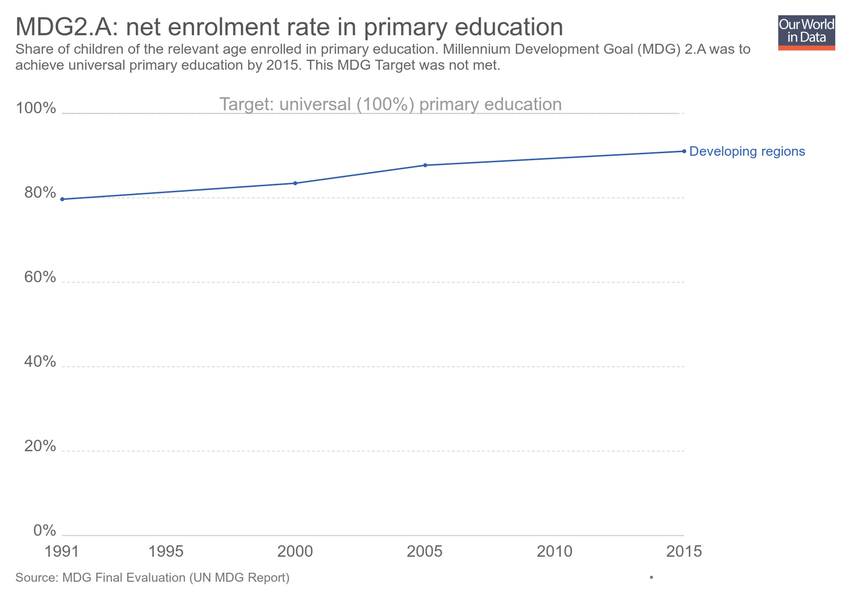
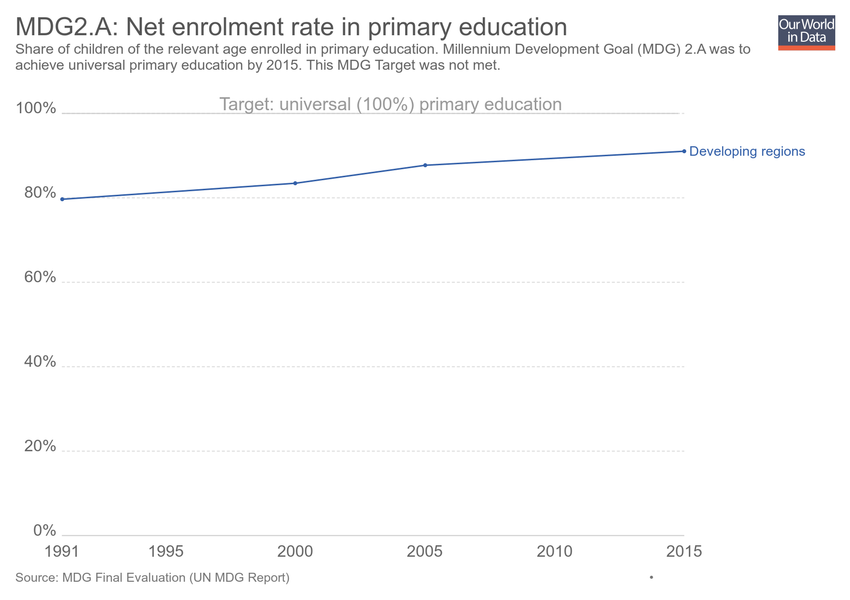
Updating chart mdg2a-education

Changed region(s): [[0.1529, 0.03, 0.6729, 0.06]]

diff --git a/grapher/mdg2a-education.html b/grapher/mdg2a-education.html
@@ -1,4 +1,4 @@
-<!doctype html><html><head><meta name="viewport" content="width=device-width, initial-scale=1" /><title>MDG2.A: net enrolment rate in primary education - Our World in Data</title><meta name="description" content="Share of children of the relevant age enrolled in primary education. Millennium Development Goal (MDG) 2.A was to achieve universal primary education by 2015. This MDG Target was not met." /><link rel="canonical" href="https://ourworldindata.org/grapher/mdg2a-education" /><meta property="fb:app_id" content="1149943818390250" /><meta property="og:url" content="https://ourworldindata.org/grapher/mdg2a-education" /><meta property="og:title" content="MDG2.A: net enrolment rate in primary education" /><meta property="og:description" content="Share of children of the relevant age enrolled in primary education. Millennium Development Goal (MDG) 2.A was to achieve universal primary education by 2015. This MDG Target was not met." /><meta property="og:image" content="https://ourworldindata.org/grapher/exports/mdg2a-education.png?v=1" /><meta property="og:image:width" content="850" /><meta property="og:image:height" content="600" /><meta property="og:site_name" content="Our World in Data" /><meta name="twitter:card" content="summary_large_image" /><meta name="twitter:site" content="@OurWorldInData" /><meta name="twitter:creator" content="@OurWorldInData" /><meta name="twitter:title" content="MDG2.A: net enrolment rate in primary education" /><meta name="twitter:description" content="Share of children of the relevant age enrolled in primary education. Millennium Development Goal (MDG) 2.A was to achieve universal primary education by 2015. This MDG Target was not met." /><meta name="twitter:image" content="https://ourworldindata.org/grapher/exports/mdg2a-education.png?v=1" /><style>
+<!doctype html><html><head><meta name="viewport" content="width=device-width, initial-scale=1" /><title>MDG2.A: Net enrolment rate in primary education - Our World in Data</title><meta name="description" content="Share of children of the relevant age enrolled in primary education. Millennium Development Goal (MDG) 2.A was to achieve universal primary education by 2015. This MDG Target was not met." /><link rel="canonical" href="https://ourworldindata.org/grapher/mdg2a-education" /><meta property="fb:app_id" content="1149943818390250" /><meta property="og:url" content="https://ourworldindata.org/grapher/mdg2a-education" /><meta property="og:title" content="MDG2.A: Net enrolment rate in primary education" /><meta property="og:description" content="Share of children of the relevant age enrolled in primary education. Millennium Development Goal (MDG) 2.A was to achieve universal primary education by 2015. This MDG Target was not met." /><meta property="og:image" content="https://ourworldindata.org/grapher/exports/mdg2a-education.png?v=2" /><meta property="og:image:width" content="850" /><meta property="og:image:height" content="600" /><meta property="og:site_name" content="Our World in Data" /><meta name="twitter:card" content="summary_large_image" /><meta name="twitter:site" content="@OurWorldInData" /><meta name="twitter:creator" content="@OurWorldInData" /><meta name="twitter:title" content="MDG2.A: Net enrolment rate in primary education" /><meta name="twitter:description" content="Share of children of the relevant age enrolled in primary education. Millennium Development Goal (MDG) 2.A was to achieve universal primary education by 2015. This MDG Target was not met." /><meta name="twitter:image" content="https://ourworldindata.org/grapher/exports/mdg2a-education.png?v=2" /><style>
         html, body {
             height: 100%;
             margin: 0;
@@ -20,8 +20,8 @@
         }
     </style><noscript><style>
                     figure { display: none !important; }
-                </style></noscript><link rel="stylesheet" href="https://ourworldindata.org/grapher/assets/commons.bundle.f1a1d21b78c2ceaa055d.css" /><link rel="preload" href="/grapher/data/variables/97657.json?v=1" as="fetch" crossorigin /></head><body class="singleChart"><figure data-grapher-src="/grapher/mdg2a-education"></figure><noscript id="fallback"><img src="/grapher/exports/mdg2a-education.svg" /><p>Interactive visualization requires JavaScript</p></noscript><script src="https://cdn.polyfill.io/v2/polyfill.min.js?features=es6,fetch"></script><script src="https://ourworldindata.org/grapher/assets/commons.bundle.f1a1d21b78c2ceaa055d.js"></script><script src="https://ourworldindata.org/grapher/assets/charts.bundle.f1a1d21b78c2ceaa055d.js"></script><script>
-        var jsonConfig = {"map":{"projection":"World","colorSchemeLabels":[],"colorSchemeValues":[],"customNumericColors":[],"customCategoryColors":{},"customCategoryLabels":{},"customHiddenCategories":{}},"tab":"chart","slug":"mdg2a-education","type":"LineChart","title":"MDG2.A: net enrolment rate in primary education","xAxis":{"scaleType":"linear"},"yAxis":{"max":105,"min":0,"scaleType":"linear"},"version":1,"subtitle":"Share of children of the relevant age enrolled in primary education. Millennium Development Goal (MDG) 2.A was to achieve universal primary education by 2015. This MDG Target was not met.","hasMapTab":false,"stackMode":"absolute","dimensions":[{"display":{},"property":"y","variableId":97657}],"hasChartTab":true,"isPublished":true,"selectedData":[{"index":0,"entityId":36372}],"addCountryMode":"add-country","comparisonLine":{"label":"Target: universal (100%) primary education","yEquals":"100"},"id":2853};
+                </style></noscript><link rel="stylesheet" href="https://ourworldindata.org/grapher/assets/commons.bundle.f1a1d21b78c2ceaa055d.css" /><link rel="preload" href="/grapher/data/variables/97657.json?v=2" as="fetch" crossorigin /></head><body class="singleChart"><figure data-grapher-src="/grapher/mdg2a-education"></figure><noscript id="fallback"><img src="/grapher/exports/mdg2a-education.svg" /><p>Interactive visualization requires JavaScript</p></noscript><script src="https://cdn.polyfill.io/v2/polyfill.min.js?features=es6,fetch"></script><script src="https://ourworldindata.org/grapher/assets/commons.bundle.f1a1d21b78c2ceaa055d.js"></script><script src="https://ourworldindata.org/grapher/assets/charts.bundle.f1a1d21b78c2ceaa055d.js"></script><script>
+        var jsonConfig = {"id":2853,"map":{"projection":"World","colorSchemeLabels":[],"colorSchemeValues":[],"customNumericColors":[],"customCategoryColors":{},"customCategoryLabels":{},"customHiddenCategories":{}},"tab":"chart","slug":"mdg2a-education","type":"LineChart","title":"MDG2.A: Net enrolment rate in primary education","xAxis":{"scaleType":"linear"},"yAxis":{"max":105,"min":0,"scaleType":"linear"},"version":2,"subtitle":"Share of children of the relevant age enrolled in primary education. Millennium Development Goal (MDG) 2.A was to achieve universal primary education by 2015. This MDG Target was not met.","hasMapTab":false,"stackMode":"absolute","dimensions":[{"display":{},"property":"y","variableId":97657}],"hasChartTab":true,"isPublished":true,"selectedData":[{"index":0,"entityId":36372}],"addCountryMode":"add-country","comparisonLine":{"label":"Target: universal (100%) primary education","yEquals":"100"}};
         var figure = document.getElementsByTagName("figure")[0];
         try {
             window.App = {};

diff --git a/grapher/mdg1b-employment.html b/grapher/mdg1b-employment.html
@@ -1,4 +1,4 @@
-<!doctype html><html><head><meta name="viewport" content="width=device-width, initial-scale=1" /><title>MDG1.B: share of working age population in employment - Our World in Data</title><meta name="description" content="Millennium Development Goal 1.B (MDG1.B) was to ensure full employment for everyone of working age (including young people and women) by 2015. This Target was not achieved. " /><link rel="canonical" href="https://ourworldindata.org/grapher/mdg1b-employment" /><meta property="fb:app_id" content="1149943818390250" /><meta property="og:url" content="https://ourworldindata.org/grapher/mdg1b-employment" /><meta property="og:title" content="MDG1.B: share of working age population in employment" /><meta property="og:description" content="Millennium Development Goal 1.B (MDG1.B) was to ensure full employment for everyone of working age (including young people and women) by 2015. This Target was not achieved. " /><meta property="og:image" content="https://ourworldindata.org/grapher/exports/mdg1b-employment.png?v=1" /><meta property="og:image:width" content="850" /><meta property="og:image:height" content="600" /><meta property="og:site_name" content="Our World in Data" /><meta name="twitter:card" content="summary_large_image" /><meta name="twitter:site" content="@OurWorldInData" /><meta name="twitter:creator" content="@OurWorldInData" /><meta name="twitter:title" content="MDG1.B: share of working age population in employment" /><meta name="twitter:description" content="Millennium Development Goal 1.B (MDG1.B) was to ensure full employment for everyone of working age (including young people and women) by 2015. This Target was not achieved. " /><meta name="twitter:image" content="https://ourworldindata.org/grapher/exports/mdg1b-employment.png?v=1" /><style>
+<!doctype html><html><head><meta name="viewport" content="width=device-width, initial-scale=1" /><title>MDG1.B: Share of working age population in employment - Our World in Data</title><meta name="description" content="Millennium Development Goal 1.B (MDG1.B) was to ensure full employment for everyone of working age (including young people and women) by 2015. This Target was not achieved. " /><link rel="canonical" href="https://ourworldindata.org/grapher/mdg1b-employment" /><meta property="fb:app_id" content="1149943818390250" /><meta property="og:url" content="https://ourworldindata.org/grapher/mdg1b-employment" /><meta property="og:title" content="MDG1.B: Share of working age population in employment" /><meta property="og:description" content="Millennium Development Goal 1.B (MDG1.B) was to ensure full employment for everyone of working age (including young people and women) by 2015. This Target was not achieved. " /><meta property="og:image" content="https://ourworldindata.org/grapher/exports/mdg1b-employment.png?v=2" /><meta property="og:image:width" content="850" /><meta property="og:image:height" content="600" /><meta property="og:site_name" content="Our World in Data" /><meta name="twitter:card" content="summary_large_image" /><meta name="twitter:site" content="@OurWorldInData" /><meta name="twitter:creator" content="@OurWorldInData" /><meta name="twitter:title" content="MDG1.B: Share of working age population in employment" /><meta name="twitter:description" content="Millennium Development Goal 1.B (MDG1.B) was to ensure full employment for everyone of working age (including young people and women) by 2015. This Target was not achieved. " /><meta name="twitter:image" content="https://ourworldindata.org/grapher/exports/mdg1b-employment.png?v=2" /><style>
         html, body {
             height: 100%;
             margin: 0;
@@ -20,8 +20,8 @@
         }
     </style><noscript><style>
                     figure { display: none !important; }
-                </style></noscript><link rel="stylesheet" href="https://ourworldindata.org/grapher/assets/commons.bundle.f1a1d21b78c2ceaa055d.css" /><link rel="preload" href="/grapher/data/variables/97655.json?v=1" as="fetch" crossorigin /></head><body class="singleChart"><figure data-grapher-src="/grapher/mdg1b-employment"></figure><noscript id="fallback"><img src="/grapher/exports/mdg1b-employment.svg" /><p>Interactive visualization requires JavaScript</p></noscript><script src="https://cdn.polyfill.io/v2/polyfill.min.js?features=es6,fetch"></script><script src="https://ourworldindata.org/grapher/assets/commons.bundle.f1a1d21b78c2ceaa055d.js"></script><script src="https://ourworldindata.org/grapher/assets/charts.bundle.f1a1d21b78c2ceaa055d.js"></script><script>
-        var jsonConfig = {"map":{"projection":"World","colorSchemeLabels":[],"colorSchemeValues":[],"customNumericColors":[],"customCategoryColors":{},"customCategoryLabels":{},"customHiddenCategories":{}},"tab":"chart","slug":"mdg1b-employment","type":"LineChart","title":"MDG1.B: share of working age population in employment","xAxis":{"scaleType":"linear"},"yAxis":{"max":105,"min":0,"scaleType":"linear"},"version":1,"subtitle":"Millennium Development Goal 1.B (MDG1.B) was to ensure full employment for everyone of working age (including young people and women) by 2015. This Target was not achieved. ","hasMapTab":false,"stackMode":"absolute","dimensions":[{"display":{},"property":"y","variableId":97655}],"hasChartTab":true,"isPublished":true,"selectedData":[{"index":0,"entityId":36372}],"addCountryMode":"add-country","comparisonLine":{"label":"Target: full employment for working age population","yEquals":"100"},"id":2851};
+                </style></noscript><link rel="stylesheet" href="https://ourworldindata.org/grapher/assets/commons.bundle.f1a1d21b78c2ceaa055d.css" /><link rel="preload" href="/grapher/data/variables/97655.json?v=2" as="fetch" crossorigin /></head><body class="singleChart"><figure data-grapher-src="/grapher/mdg1b-employment"></figure><noscript id="fallback"><img src="/grapher/exports/mdg1b-employment.svg" /><p>Interactive visualization requires JavaScript</p></noscript><script src="https://cdn.polyfill.io/v2/polyfill.min.js?features=es6,fetch"></script><script src="https://ourworldindata.org/grapher/assets/commons.bundle.f1a1d21b78c2ceaa055d.js"></script><script src="https://ourworldindata.org/grapher/assets/charts.bundle.f1a1d21b78c2ceaa055d.js"></script><script>
+        var jsonConfig = {"id":2851,"map":{"projection":"World","colorSchemeLabels":[],"colorSchemeValues":[],"customNumericColors":[],"customCategoryColors":{},"customCategoryLabels":{},"customHiddenCategories":{}},"tab":"chart","slug":"mdg1b-employment","type":"LineChart","title":"MDG1.B: Share of working age population in employment","xAxis":{"scaleType":"linear"},"yAxis":{"max":105,"min":0,"scaleType":"linear"},"version":2,"subtitle":"Millennium Development Goal 1.B (MDG1.B) was to ensure full employment for everyone of working age (including young people and women) by 2015. This Target was not achieved. ","hasMapTab":false,"stackMode":"absolute","dimensions":[{"display":{},"property":"y","variableId":97655}],"hasChartTab":true,"isPublished":true,"selectedData":[{"index":0,"entityId":36372}],"addCountryMode":"add-country","comparisonLine":{"label":"Target: full employment for working age population","yEquals":"100"}};
         var figure = document.getElementsByTagName("figure")[0];
         try {
             window.App = {};
